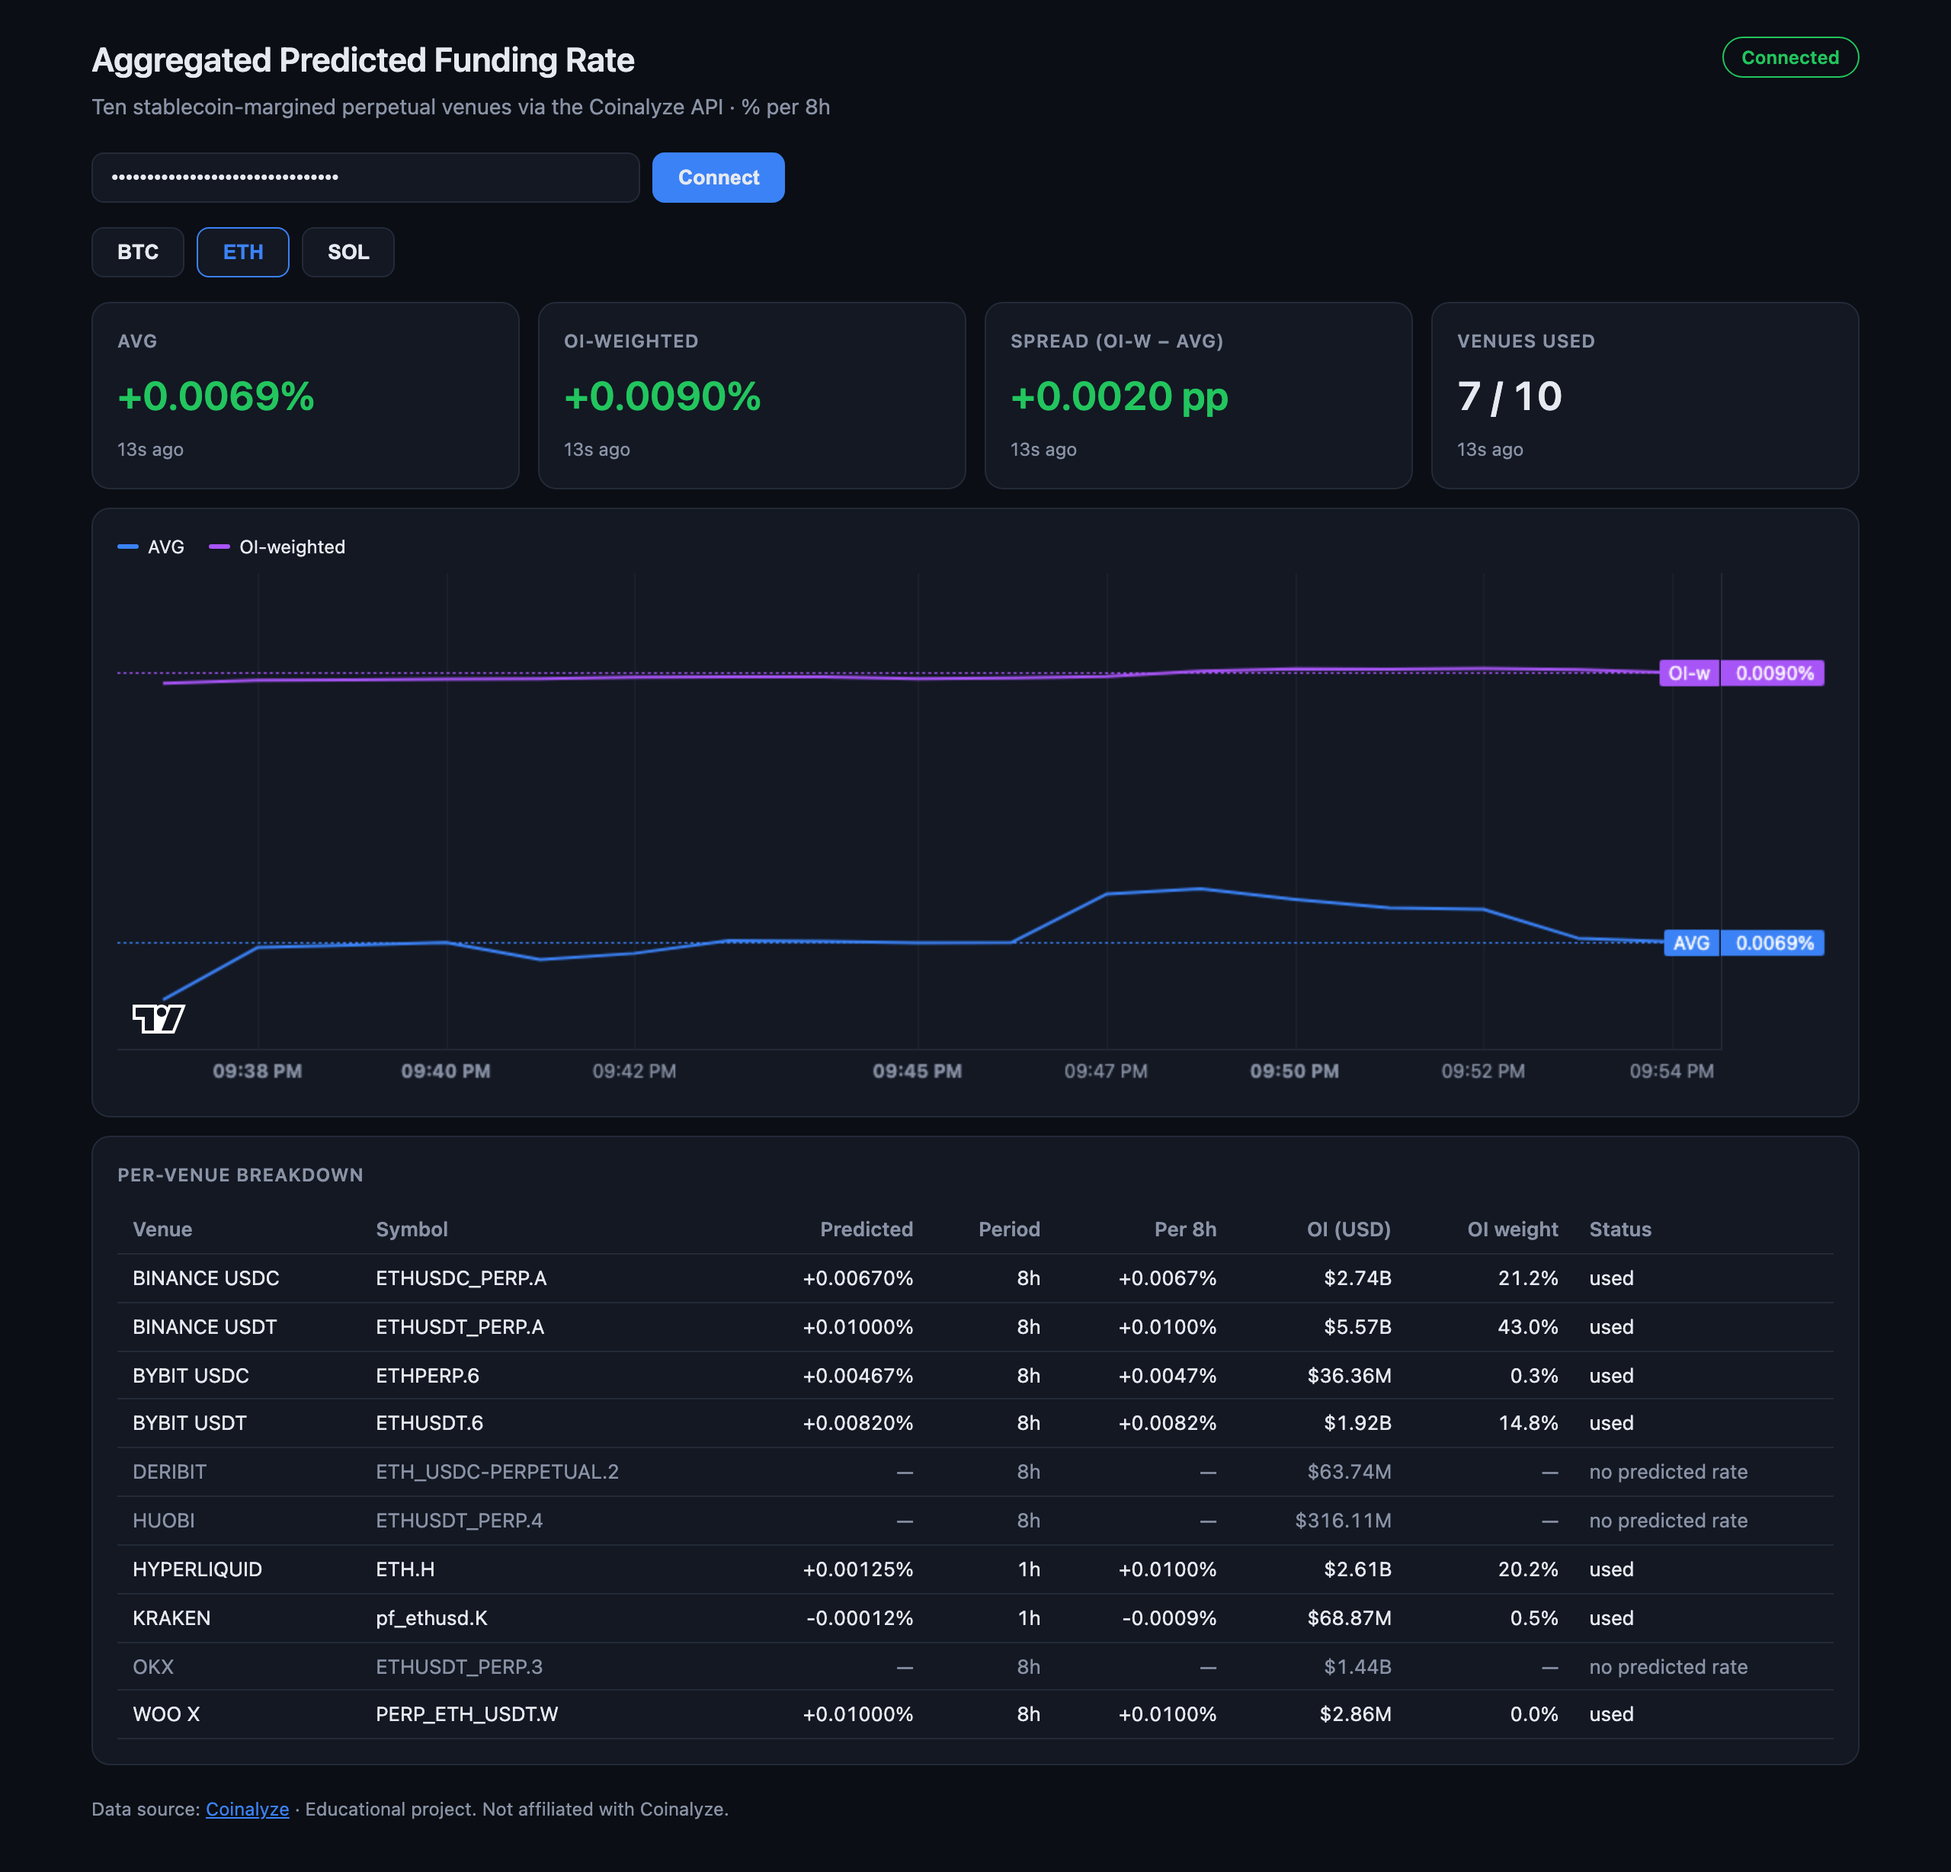
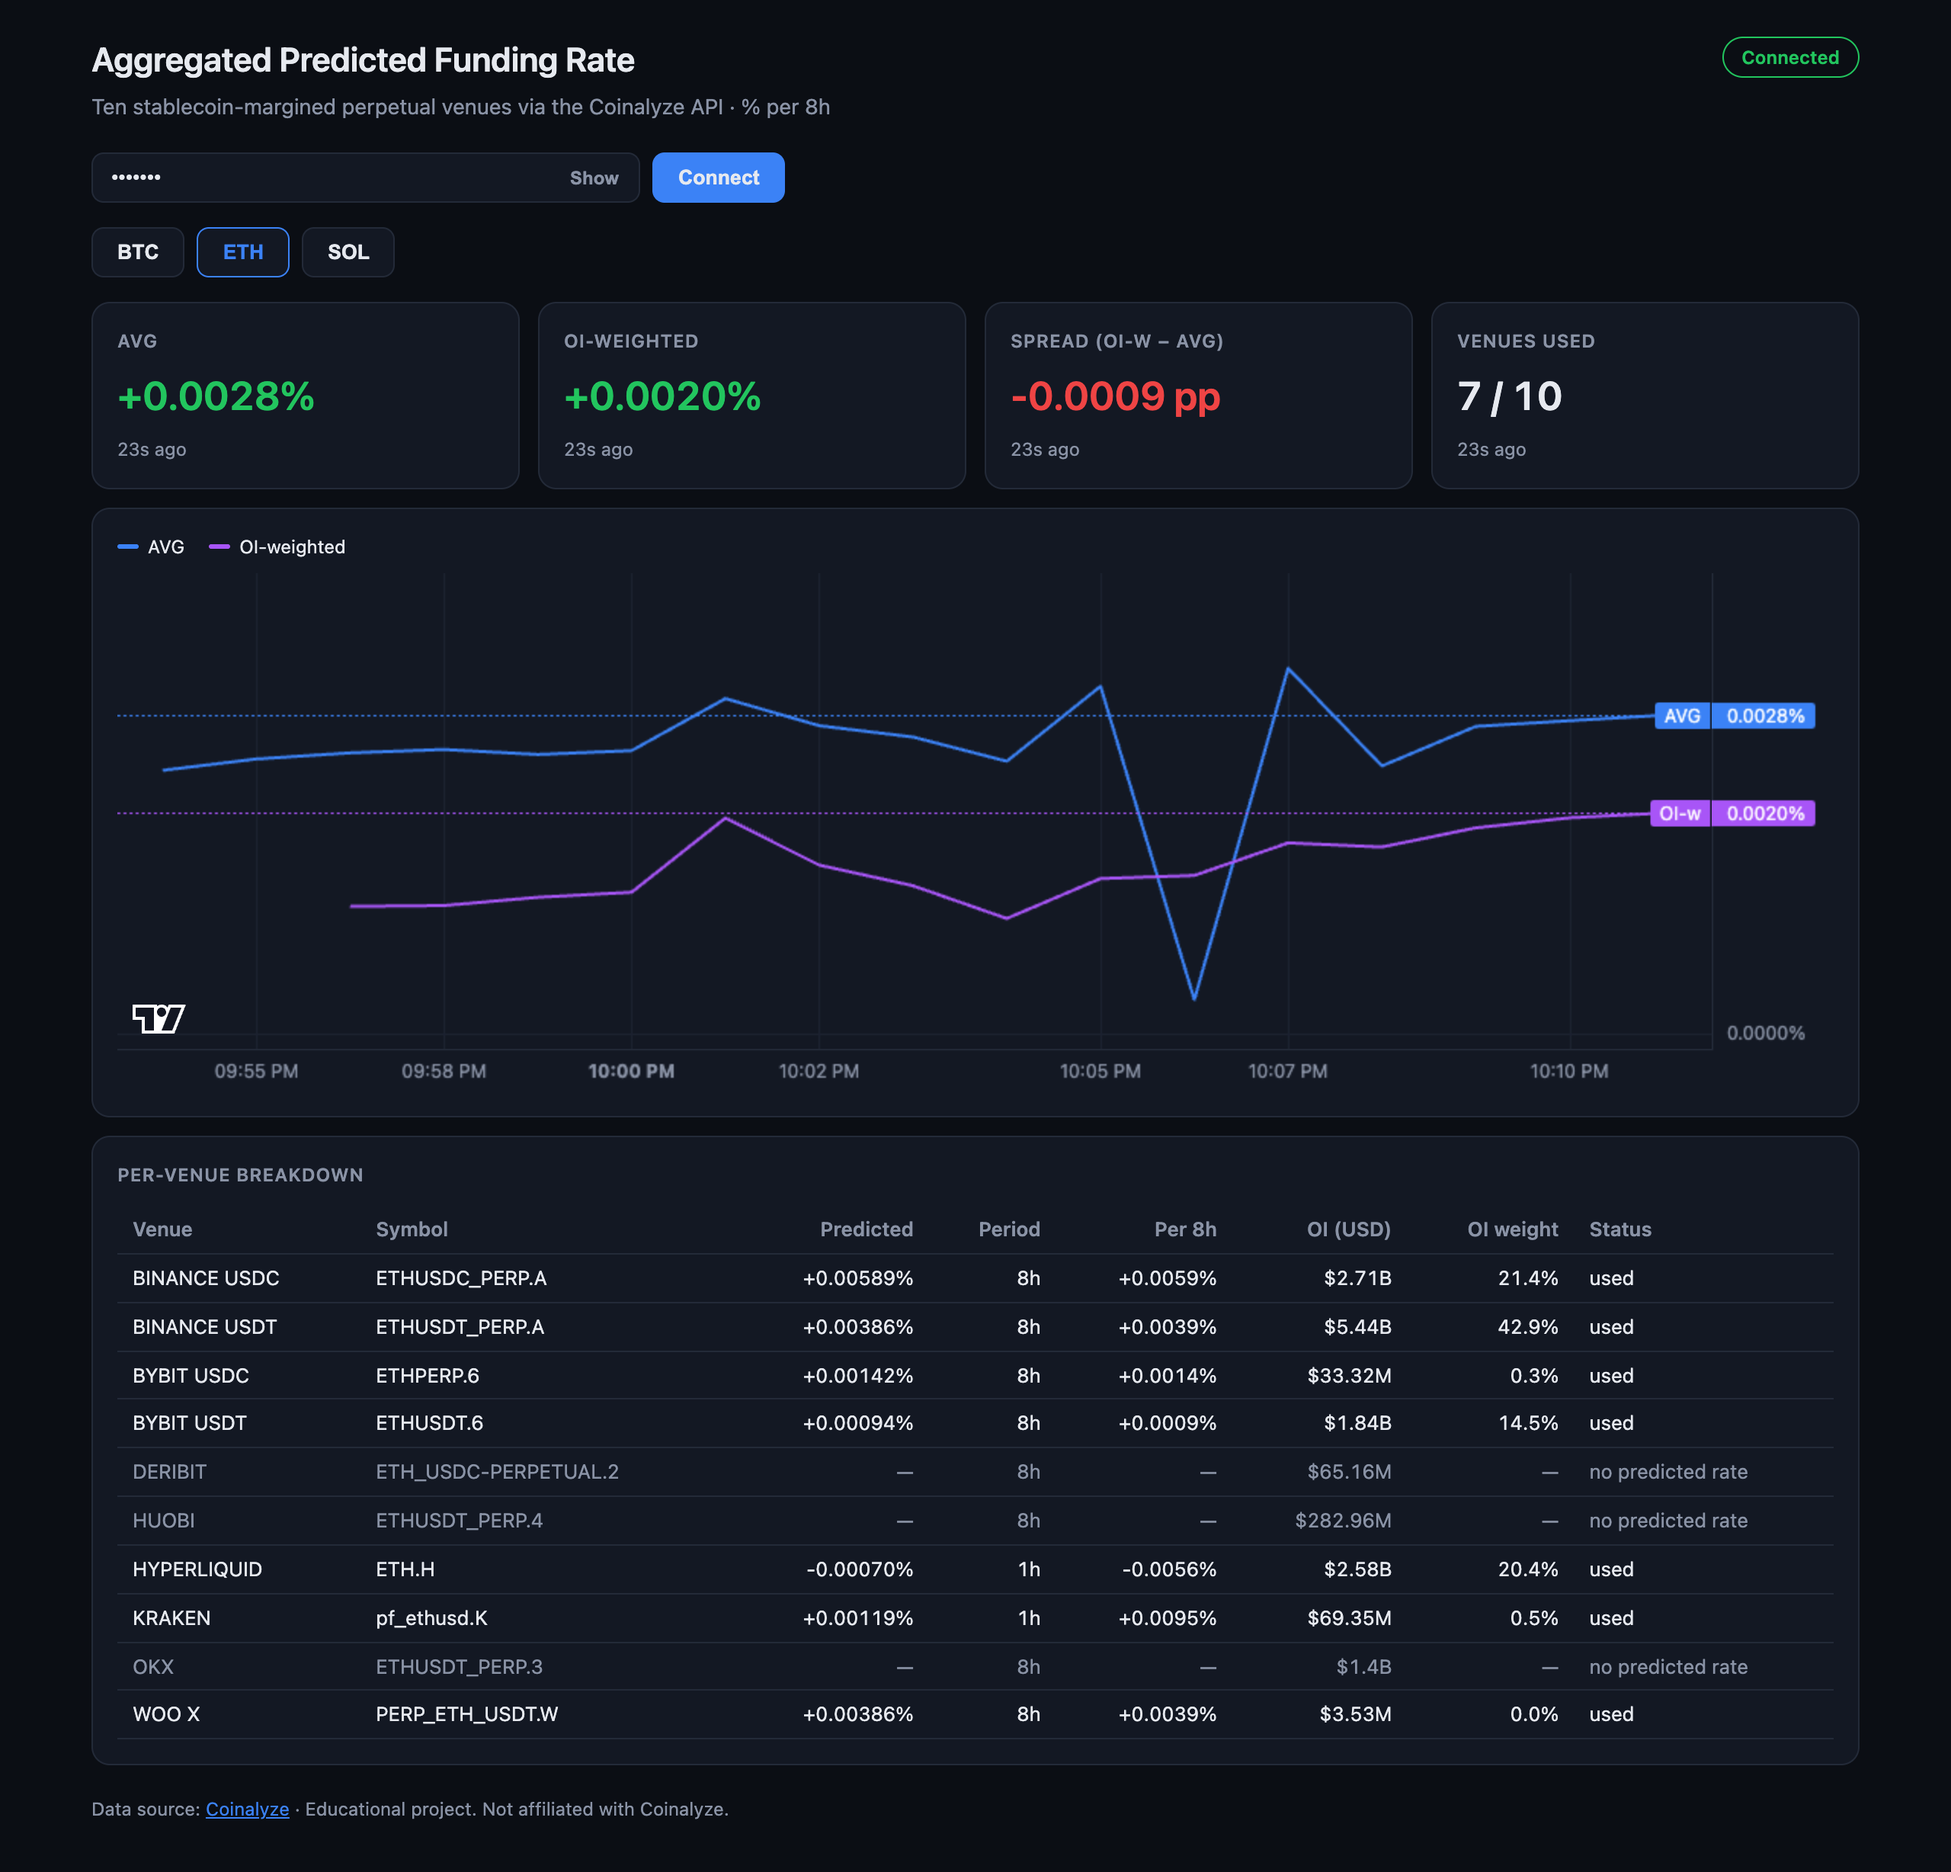
feat(dashboard): token show/hide toggle and responsive layout (#19)

diff --git a/web/style.css b/web/style.css
@@ -63,13 +63,39 @@ h1 {
   margin: 20px 0 16px;
 }
 
-.connect input {
+.token-field {
+  position: relative;
+  display: flex;
   flex: 1;
   max-width: 360px;
-  padding: 8px 12px;
+}
+
+.connect input {
+  flex: 1;
+  min-width: 0;
+  padding: 8px 64px 8px 12px;
   border: 1px solid var(--border);
   border-radius: 8px;
   background: var(--surface);
+  color: var(--fg);
+}
+
+.token-toggle {
+  position: absolute;
+  top: 4px;
+  right: 4px;
+  bottom: 4px;
+  padding: 0 10px;
+  border: 0;
+  border-radius: 6px;
+  background: transparent;
+  color: var(--muted);
+  font-size: 12px;
+}
+
+.token-toggle:hover,
+.token-toggle:focus-visible {
+  background: var(--border);
   color: var(--fg);
 }
 
@@ -83,7 +109,7 @@ button {
   cursor: pointer;
 }
 
-.connect button {
+.connect button[type="submit"] {
   background: var(--accent);
   border-color: var(--accent);
 }
@@ -233,12 +259,108 @@ footer a {
   color: var(--accent);
 }
 
-@media (max-width: 720px) {
+/* Below this width the 8-column venue table no longer fits: each venue becomes a card. */
+@media (max-width: 960px) {
+  .venues thead {
+    display: none;
+  }
+
+  .venues,
+  .venues tbody {
+    display: block;
+  }
+
+  .venues tbody {
+    display: grid;
+    grid-template-columns: repeat(auto-fill, minmax(240px, 1fr));
+    gap: 8px;
+  }
+
+  .venues tr {
+    display: grid;
+    grid-template-columns: repeat(2, minmax(0, 1fr));
+    gap: 4px 16px;
+    padding: 10px 12px;
+    border: 1px solid var(--border);
+    border-radius: 8px;
+  }
+
+  .venues td {
+    display: flex;
+    justify-content: space-between;
+    gap: 8px;
+    padding: 0;
+    border: 0;
+  }
+
+  .venues td::before {
+    content: attr(data-label);
+    color: var(--muted);
+  }
+
+  /* Cell order: venue, symbol, predicted, period, per 8h, OI, OI weight, status. */
+  .venues td:nth-child(1) {
+    grid-area: 1 / 1;
+    font-weight: 600;
+  }
+
+  .venues td:nth-child(8) {
+    grid-area: 1 / 2;
+    justify-content: flex-end;
+    color: var(--muted);
+  }
+
+  .venues td:nth-child(2) {
+    display: block;
+    grid-area: 2 / 1 / 3 / -1;
+    overflow: hidden;
+    color: var(--muted);
+    font-size: 12px;
+    text-overflow: ellipsis;
+  }
+
+  .venues td:nth-child(1)::before,
+  .venues td:nth-child(2)::before,
+  .venues td:nth-child(8)::before {
+    content: none;
+  }
+
+  .venues td:nth-child(5) { order: 1; }
+  .venues td:nth-child(7) { order: 2; }
+  .venues td:nth-child(6) { order: 3; }
+  .venues td:nth-child(3) { order: 4; }
+  .venues td:nth-child(4) { order: 5; }
+}
+
+@media (max-width: 820px) {
   .cards {
     grid-template-columns: repeat(2, minmax(0, 1fr));
   }
 
   .card .value {
     font-size: 20px;
+  }
+}
+
+@media (max-width: 480px) {
+  body {
+    padding: 16px 14px 24px;
+  }
+
+  h1 {
+    font-size: 18px;
+  }
+
+  .card {
+    padding: 12px;
+  }
+
+  .card h2 {
+    font-size: 11px;
+    letter-spacing: 0.02em;
+  }
+
+  .chart {
+    height: 260px;
   }
 }

diff --git a/web/app.ts b/web/app.ts
@@ -18,8 +18,11 @@ const $ = <T extends HTMLElement>(selector: string) => document.querySelector(se
 
 const statusEl = $<HTMLSpanElement>("#status");
 const tokenInput = $<HTMLInputElement>("#token");
+const tokenToggle = $<HTMLButtonElement>("#token-toggle");
 const tabsEl = $<HTMLElement>("#tabs");
 const venuesEl = $<HTMLTableSectionElement>("#venues");
+// Narrow screens render each row as a card and label every cell from its column header.
+const venueColumns = [...document.querySelectorAll<HTMLTableCellElement>("table.venues thead th")].map((th) => th.textContent ?? "");
 
 let socket: WebSocket | null = null;
 let reconnectTimer: ReturnType<typeof setTimeout> | undefined;
@@ -112,6 +115,7 @@ const renderVenues = () => {
         ...cells.map((text, i) => {
           const td = document.createElement("td");
           td.textContent = text;
+          td.dataset.label = venueColumns[i];
           if (i >= 2 && i <= 6) td.className = "num";
           return td;
         }),
@@ -286,6 +290,12 @@ const connect = () => {
 $<HTMLFormElement>("#connect").addEventListener("submit", (event) => {
   event.preventDefault();
   connect();
+});
+
+tokenToggle.addEventListener("click", () => {
+  const reveal = tokenInput.type === "password";
+  tokenInput.type = reveal ? "text" : "password";
+  tokenToggle.textContent = reveal ? "Hide" : "Show";
 });
 
 setInterval(renderCards, 1000);

diff --git a/web/index.html b/web/index.html
@@ -16,7 +16,10 @@
   </header>
 
   <form id="connect" class="connect" autocomplete="off">
-    <input id="token" type="password" placeholder="AUTH_TOKEN" aria-label="Auth token" required>
+    <div class="token-field">
+      <input id="token" type="password" placeholder="AUTH_TOKEN" aria-label="Auth token" required>
+      <button type="button" id="token-toggle" class="token-toggle" aria-controls="token">Show</button>
+    </div>
     <button type="submit">Connect</button>
   </form>
 

diff --git a/CLAUDE.md b/CLAUDE.md
@@ -50,7 +50,7 @@ Runtime modes:
 | `src/funding/aggregate.ts` | `aggregate()` (pure AVG + OI-weighted). |
 | `src/funding/source.ts` | `FundingSource`: resolves venues against `/future-markets` (24h cache), rolling per-market OI refresh (oldest first, refetched once ≥ `OI_REFRESH_MS` old, spare budget per cycle), OI seeded from persisted snapshots, OI-weighted null until every used venue has OI, an OI failure does not block AVG, staleness filter, components, budget warning. Clock injectable. |
 | `scripts/calibrate/*` | `main.ts` (CLI), `analyze.ts` (pure: venue ratios, lag-aligned MAD, history SMA), `chart-page.ts`, `browser.ts`, `parse.ts`. |
-| `web/index.html`, `web/app.ts`, `web/style.css` | Dashboard: cards, AVG/OI-weighted chart (local time), per-venue table. Bun HTML import, `lightweight-charts` v5. |
+| `web/index.html`, `web/app.ts`, `web/style.css` | Dashboard: token field with Show/Hide toggle, cards, AVG/OI-weighted chart (local time), per-venue table (one card per venue below 960 px, labelled from the `<th>` text via `data-label`, so header text and `td:nth-child` placement in `style.css` must stay in column order). Bun HTML import, `lightweight-charts` v5. |
 | `test/*.test.ts` | `bun:test`; no network, no browser. |
 | `Dockerfile`, `docker-compose.yml` | Pinned `oven/bun:1.4.3-debian`, production deps only (~240 MB), non-root, healthcheck; compose adds the `data` volume and `init`. |
 | `.github/workflows/ci.yml` | `bun install --frozen-lockfile` → `bun run typecheck` → `bun test`. |

diff --git a/README.md b/README.md
@@ -132,6 +132,8 @@ bun install
 bun run start           # dashboard on http://localhost:3000, WebSocket on /ws
 ```
 
+Open the dashboard and enter your `AUTH_TOKEN`. It is masked by default; **Show** reveals it and **Hide** masks it again. The token is kept in the browser's `localStorage`, so the page reconnects on reload. On screens narrower than 960 px the per-venue table becomes one card per venue, so no column is cut off on phones or tablets.
+
 To fetch one snapshot per coin, print it to stdout and exit (exit code 1 if no coin produced a value):
 
 ```bash
